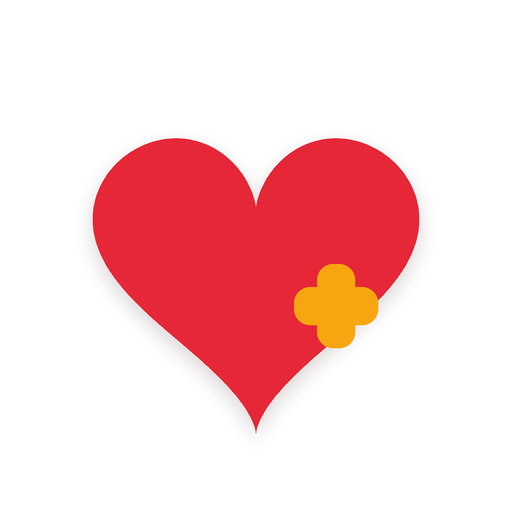
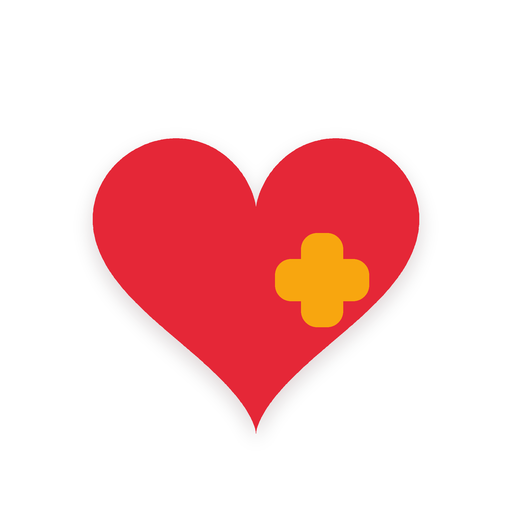
Move notification plus fully inside heart

Changed region(s): [[0.5312, 0.4375, 0.75, 0.6875]]

diff --git a/templates/service-worker.js b/templates/service-worker.js
@@ -1,4 +1,4 @@
-const CACHE = 'briga-plus-notification-logo-20260810';
+const CACHE = 'briga-plus-notification-logo-20260811';
 const OFFLINE = [
   '/static/briga-v2.css?v=20260808',
   '/static/briga-v2.js?v=20260803',
@@ -7,8 +7,8 @@ const OFFLINE = [
   '/static/chat-live.js?v=20260807',
   '/static/briga-mark.svg',
   '/static/briga-ui-icons.svg',
-  '/static/briga-notification-icon-512.png?v=20260810',
-  '/static/briga-notification-badge-96.png?v=20260810',
+  '/static/briga-notification-icon-512.png?v=20260811',
+  '/static/briga-notification-badge-96.png?v=20260811',
   '/static/manifest.webmanifest',
 ];
 
@@ -36,8 +36,8 @@ self.addEventListener('push', event => {
   const payload = event.data ? event.data.json() : {};
   event.waitUntil(self.registration.showNotification(payload.title || 'Briga+', {
     body: payload.body || 'Imate novo obaveštenje.',
-    icon: '/static/briga-notification-icon-512.png?v=20260810',
-    badge: '/static/briga-notification-badge-96.png?v=20260810',
+    icon: '/static/briga-notification-icon-512.png?v=20260811',
+    badge: '/static/briga-notification-badge-96.png?v=20260811',
     data: { url: payload.url || '/' },
   }));
 });

diff --git a/users/tests.py b/users/tests.py
@@ -48,9 +48,9 @@ class DashboardFlowTests(TestCase):
         response = self.client.get('/service-worker.js')
         self.assertEqual(response.status_code, 200)
         self.assertIn('no-cache', response['Cache-Control'])
-        self.assertContains(response, "briga-plus-notification-logo-20260810")
-        self.assertContains(response, "briga-notification-icon-512.png?v=20260810")
-        self.assertContains(response, "briga-notification-badge-96.png?v=20260810")
+        self.assertContains(response, "briga-plus-notification-logo-20260811")
+        self.assertContains(response, "briga-notification-icon-512.png?v=20260811")
+        self.assertContains(response, "briga-notification-badge-96.png?v=20260811")
         self.assertContains(response, 'self.skipWaiting()')
 
     def test_sophie_speech_requires_configured_service(self):
